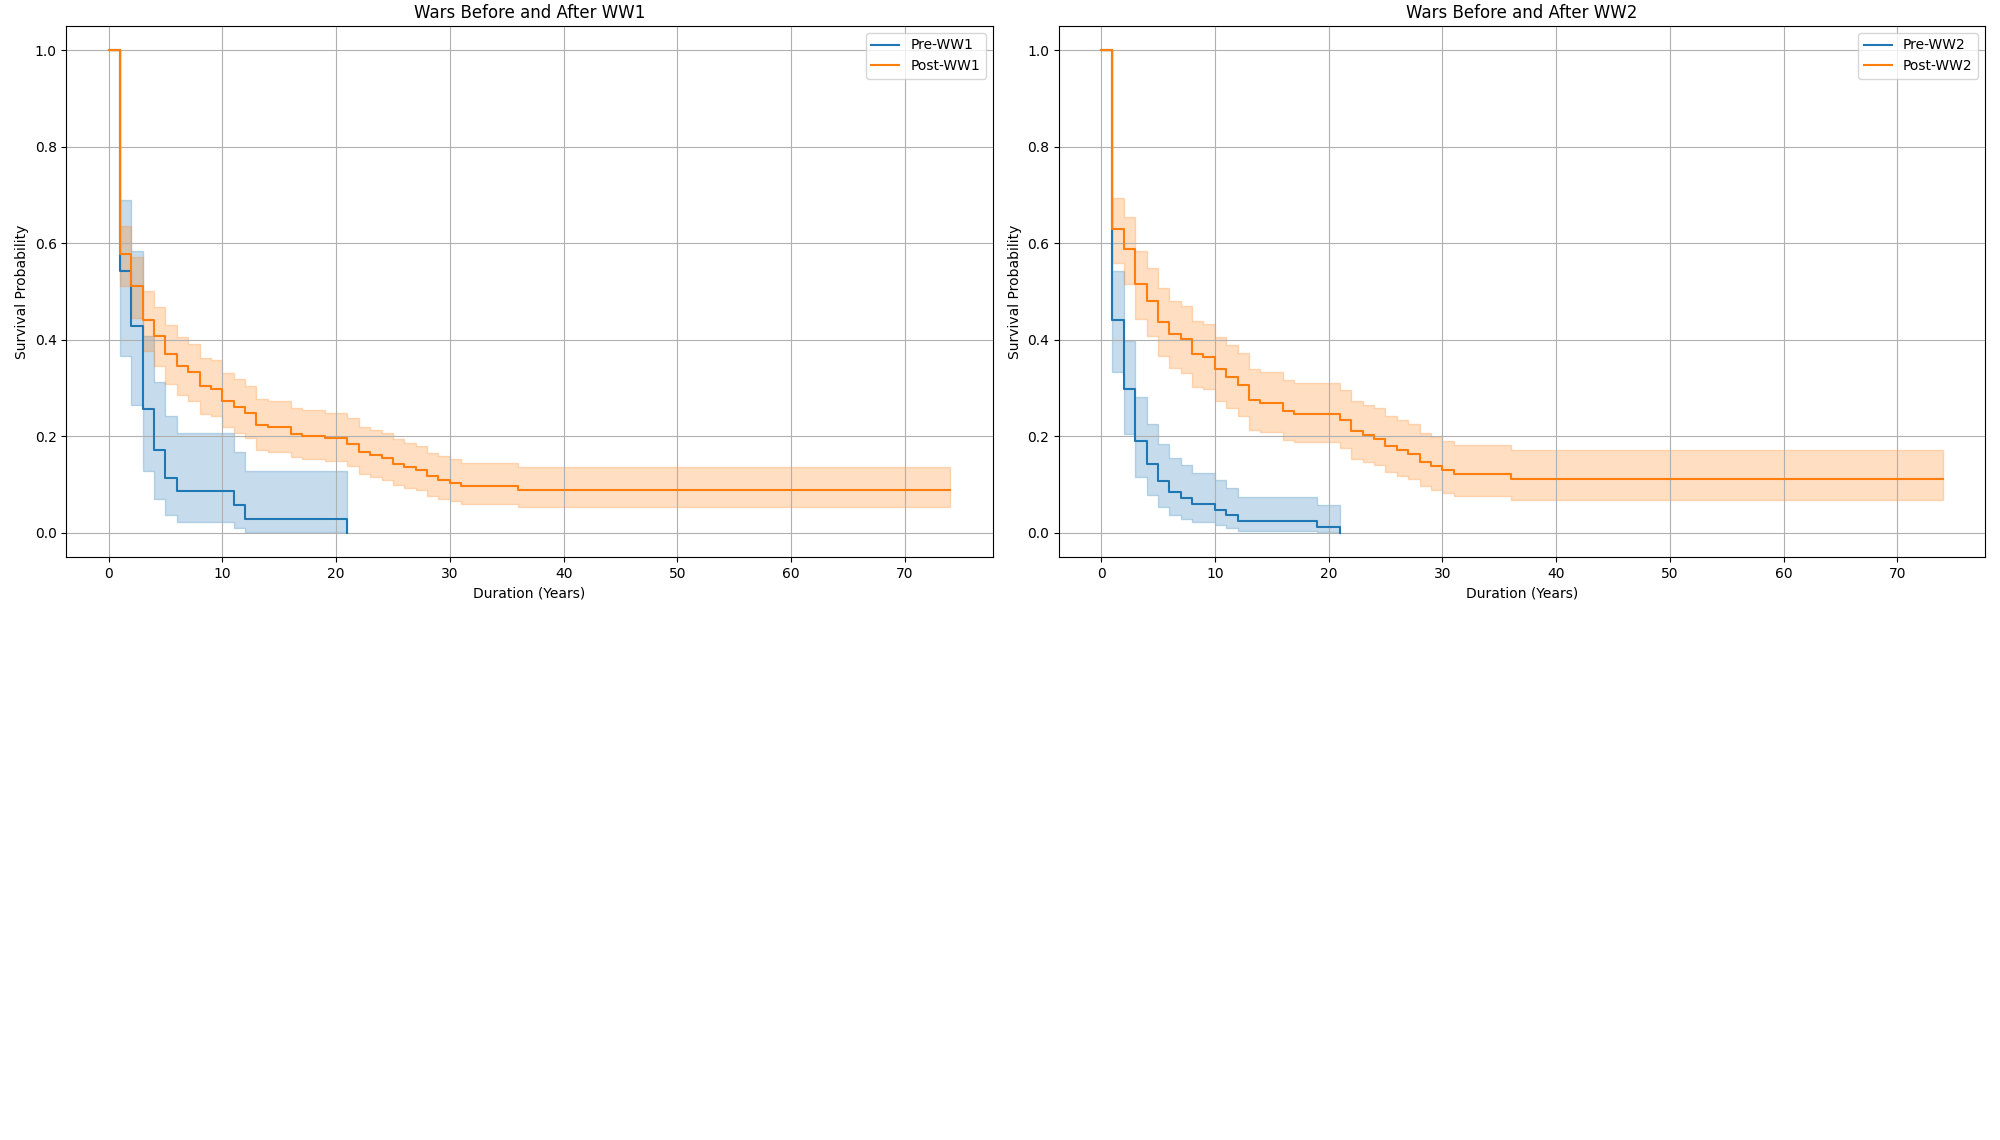
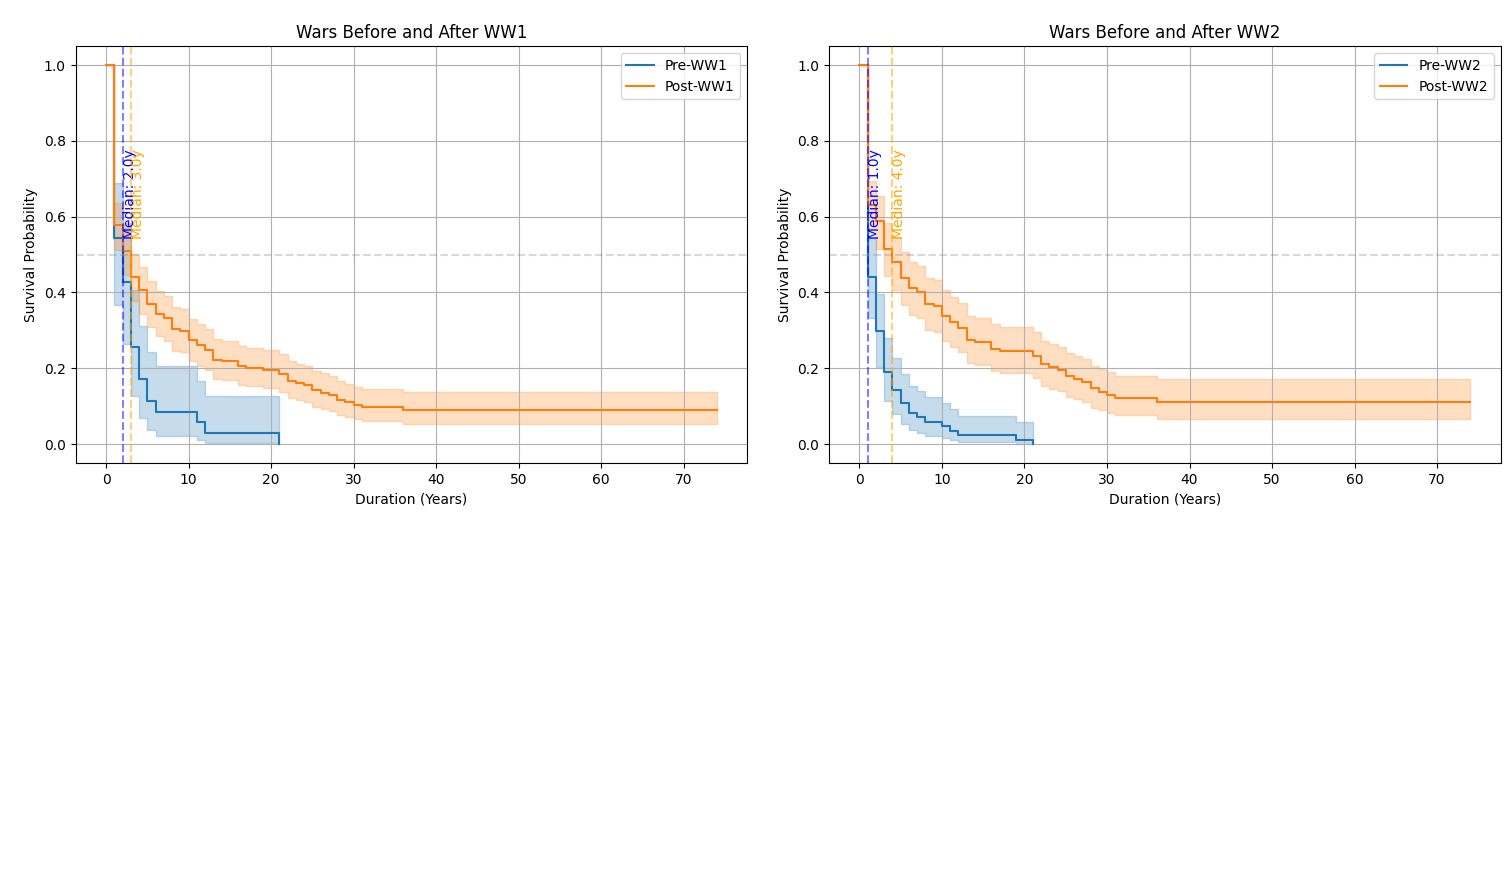
MACBOOK

diff --git a/iie4121/war_world.py b/iie4121/war_world.py
@@ -70,6 +70,24 @@ plt.figure(figsize=(20, 16))
 plt.subplot(221)
 kmf_pre_ww1.plot(ci_show=True)
 kmf_post_ww1.plot(ci_show=True)
+
+# WW1 중앙값 표시
+median_pre_ww1 = kmf_pre_ww1.median_survival_time_
+median_post_ww1 = kmf_post_ww1.median_survival_time_
+plt.axvline(x=median_pre_ww1, color="blue", linestyle="--", alpha=0.5)
+plt.axvline(x=median_post_ww1, color="orange", linestyle="--", alpha=0.5)
+plt.axhline(y=0.5, color="gray", linestyle="--", alpha=0.3)
+plt.text(
+    median_pre_ww1, 0.55, f"Median: {median_pre_ww1:.1f}y", rotation=90, color="blue"
+)
+plt.text(
+    median_post_ww1,
+    0.55,
+    f"Median: {median_post_ww1:.1f}y",
+    rotation=90,
+    color="orange",
+)
+
 plt.title("Wars Before and After WW1")
 plt.xlabel("Duration (Years)")
 plt.ylabel("Survival Probability")
@@ -79,6 +97,24 @@ plt.grid(True)
 plt.subplot(222)
 kmf_pre_ww2.plot(ci_show=True)
 kmf_post_ww2.plot(ci_show=True)
+
+# WW2 중앙값 표시
+median_pre_ww2 = kmf_pre_ww2.median_survival_time_
+median_post_ww2 = kmf_post_ww2.median_survival_time_
+plt.axvline(x=median_pre_ww2, color="blue", linestyle="--", alpha=0.5)
+plt.axvline(x=median_post_ww2, color="orange", linestyle="--", alpha=0.5)
+plt.axhline(y=0.5, color="gray", linestyle="--", alpha=0.3)
+plt.text(
+    median_pre_ww2, 0.55, f"Median: {median_pre_ww2:.1f}y", rotation=90, color="blue"
+)
+plt.text(
+    median_post_ww2,
+    0.55,
+    f"Median: {median_post_ww2:.1f}y",
+    rotation=90,
+    color="orange",
+)
+
 plt.title("Wars Before and After WW2")
 plt.xlabel("Duration (Years)")
 plt.ylabel("Survival Probability")
@@ -87,18 +123,48 @@ plt.grid(True)
 plt.tight_layout()
 plt.show()
 
+# 중앙값 출력
+print("\nMedian Survival Times:")
+print(f"Pre-WW1:  {median_pre_ww1:.2f} years")
+print(f"Post-WW1: {median_post_ww1:.2f} years")
+print(f"Pre-WW2:  {median_pre_ww2:.2f} years")
+print(f"Post-WW2: {median_post_ww2:.2f} years")
+
 # 지역별 분석을 위한 새로운 그래프
 plt.figure(figsize=(15, 10))
+
+# 그래프를 위한 서브플롯 생성 및 여백 조정
+plt.subplots_adjust(right=0.80)  # 오른쪽 여백을 더 늘림
+
 for region in regions:
     regional_kmf[region].plot(ci_show=False)
+
+    # 각 지역의 중앙값 위치에 수직선만 표시
+    median = regional_kmf[region].median_survival_time_
+    plt.axvline(x=median, linestyle="--", alpha=0.3)
+
+plt.axhline(y=0.5, color="gray", linestyle="--", alpha=0.3)
 plt.title("Wars by Region")
 plt.xlabel("Duration (Years)")
 plt.ylabel("Survival Probability")
 plt.grid(True)
 plt.legend(bbox_to_anchor=(1.05, 1), loc="upper left")
-plt.tight_layout()
+
+# 중앙값 정보를 그래프 오른쪽에 텍스트로 표시
+medians_text = "Median Survival Times:\n"
+for region in regions:
+    median = regional_kmf[region].median_survival_time_
+    medians_text += f"{region.replace('_', ' ').title():15}: {median:.1f} years\n"
+
+plt.figtext(0.83, 0.5, medians_text, fontsize=10, family="monospace", va="center")
+
 plt.show()
 
+# 지역별 중앙값 출력
+print("\nMedian Survival Times by Region:")
+for region in regions:
+    median = regional_kmf[region].median_survival_time_
+    print(f"{region.replace('_', ' ').title():15} {median:.2f} years")
 
 # WW1 Life Table 출력
 print("\nLife Table with Confidence Intervals for Pre-WW1 Wars:")
@@ -252,7 +318,7 @@ cph.fit(
     show_progress=True,
 )
 
-# Cox 모델 결과 출력
+# Cox 모델 결과 력
 print("\nCox Proportional Hazard Model Results:")
 print(cph.print_summary())
 
